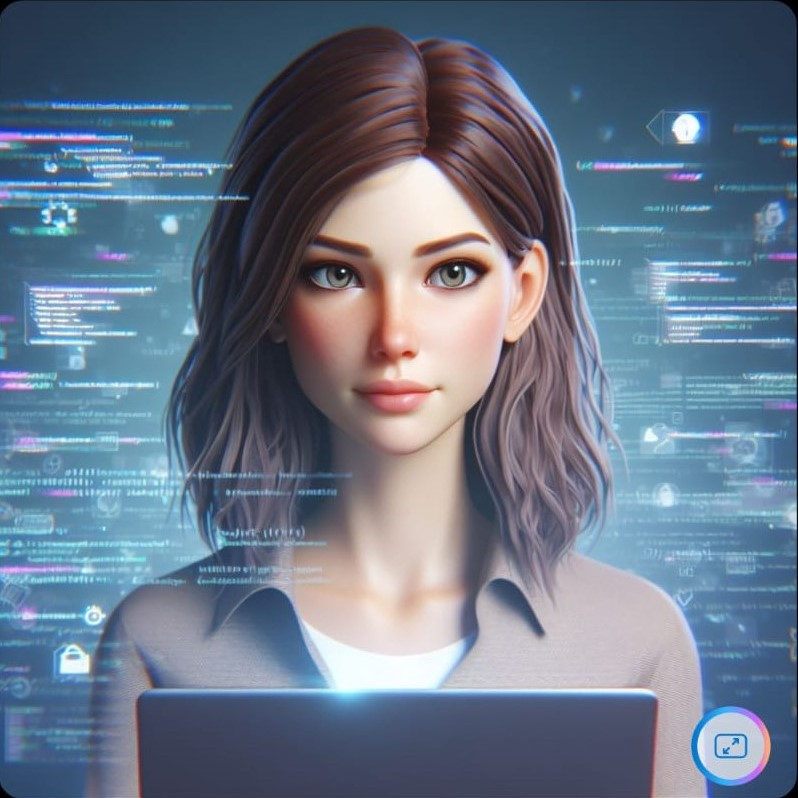
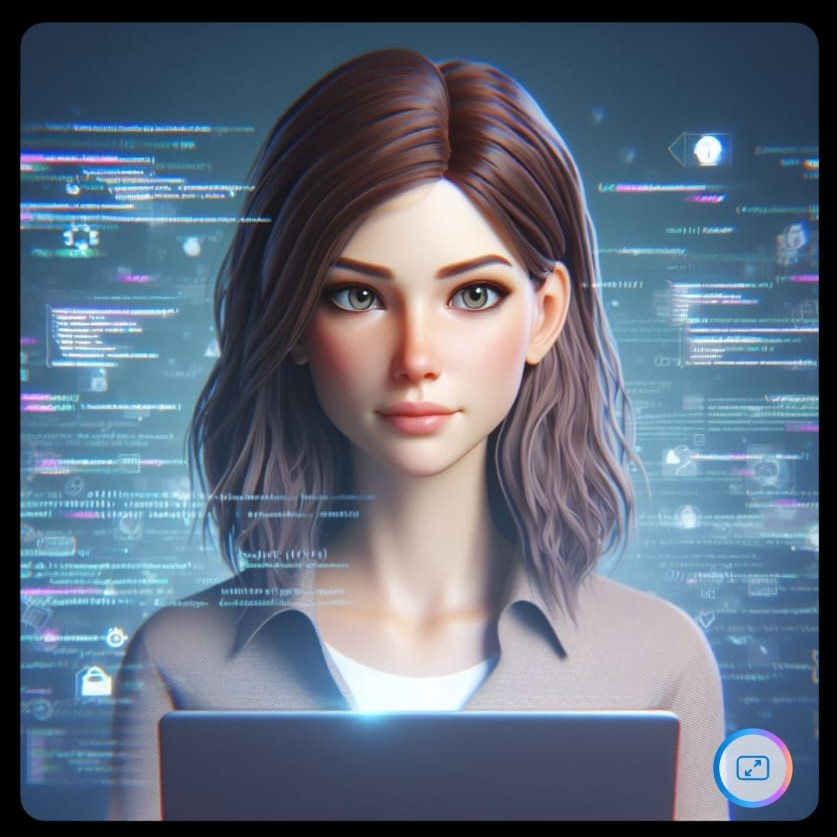
modified page More about me and deleted contact links from middle page position

diff --git a/src/pages/About.jsx b/src/pages/About.jsx
@@ -3,7 +3,7 @@ import Hero from '../components/Hero';
 import Container from '../components/Container';
 import Row from '../components/Row';
 import Col from '../components/Col';
-import EarthPlanet from '../components/Images/shot.jpg';
+import LidarCar from '../components/Images/shot.jpg';
 import Avatar from '../components/Images/Andreea.jpg';
 import { FaHtml5, FaCss3, FaBootstrap, FaGithub, FaReact, FaNodeJs } from "react-icons/fa";
 import { IoLogoJavascript } from "react-icons/io";
@@ -14,40 +14,41 @@ import { SiCodemirror } from "react-icons/si";
 import { FaLinkedin } from "react-icons/fa6";
 import './style.css'
 
-// import { right } from '@popperjs/core';
 
 function About() {
   return (
     <div>
-      <Hero backgroundImage= {EarthPlanet}>
-        <Row>
-          <Col size="md-6">
-        <h1> Andreea Malaiasi</h1>
-        <h2></h2>
-        <span class="badge badge-pill badge-primary"><a href="https://www.linkedin.com/in/andreea-malaiasi-bb15aa235" style={{ color: 'white' }}><FaLinkedin color='white' size='14px' style={{marginRight:'5px'}} />Linkedin</a></span>
-        <span class="badge badge-pill badge-secondary"><a href="https://github.com/Andreea-Lita" style={{ color: 'white'}}>< FaGithub color='white' size='14px' style={{marginRight:'5px'}} />GitHub</a></span>
-        </Col>
-        <Col size="md-4">
-        <img src={Avatar} alt="Andreea (Lita) Malaiasi" style= {{ width: 212, marginTop: 8 }}/>
-        </Col>
-        </Row>
+      <Hero backgroundImage={LidarCar}>
+        <Container size='md-12'>
+          <Row>
+            <Col size="md-4">
+              <h2 id='name'>Andreea Malaiasi</h2>
+              <br />
+              <span class="badge badge-pill badge-primary"><a href="https://www.linkedin.com/in/andreea-malaiasi-bb15aa235" style={{ color: 'white' }}><FaLinkedin color='white' size='14px' style={{ marginRight: '5px' }} />Linkedin</a></span>
+              <span class="badge badge-pill badge-secondary"><a href="https://github.com/Andreea-Lita" style={{ color: 'white' }}>< FaGithub color='white' size='14px' style={{ marginRight: '5px' }} />GitHub</a></span>
+            </Col>
+            <Col size="md-4">
+              <img src={Avatar} alt="Andreea (Lita) Malaiasi" style={{ width: 200, marginTop: 90 }} />
+            </Col>
+          </Row>
+        </Container>
       </Hero>
-  <div className='otherInfo'>
-    <Container>
-      <h5>Practicing web development on my portfolio!</h5>
-      <FaHtml5 color='darkcyan' size='21px' style={{marginRight:'10px'}} />
-      <FaCss3 color='darkred' size='21px' style={{marginRight:'10px'}}/>
-      <IoLogoJavascript color='purple' size='21px' style={{marginRight:'10px'}} />
-      <FaBootstrap color='gray' size='21px' style={{marginRight:'10px'}} />
-      < FaGithub color='black' size='21px' style={{marginRight:'10px'}} />
-      <DiJqueryLogo color='red' size='21px' style={{marginRight:'10px'}} />
-      <LuFileJson color='darkgreen' size='21px' style={{marginRight:'10px'}} />
-      < FaReact color='yellow' size='21px' style={{marginRight:'10px'}} />
-      <TbApi color='blue' size='21px' style={{marginRight:'10px'}} />
-      <FaNodeJs color='pink' size='21px' style={{marginRight:'10px'}} />
-      <SiCodemirror color='orange' size='21px' style={{marginRight:'10px'}} />
-    </Container>
-  </div>
+      <div className='otherInfo'>
+        <Container>
+          <h5>Practicing web development on my portfolio!</h5>
+          <FaHtml5 color='darkcyan' size='21px' style={{ marginRight: '10px' }} />
+          <FaCss3 color='darkred' size='21px' style={{ marginRight: '10px' }} />
+          <IoLogoJavascript color='purple' size='21px' style={{ marginRight: '10px' }} />
+          <FaBootstrap color='gray' size='21px' style={{ marginRight: '10px' }} />
+          < FaGithub color='black' size='21px' style={{ marginRight: '10px' }} />
+          <DiJqueryLogo color='red' size='21px' style={{ marginRight: '10px' }} />
+          <LuFileJson color='darkgreen' size='21px' style={{ marginRight: '10px' }} />
+          < FaReact color='yellow' size='21px' style={{ marginRight: '10px' }} />
+          <TbApi color='blue' size='21px' style={{ marginRight: '10px' }} />
+          <FaNodeJs color='pink' size='21px' style={{ marginRight: '10px' }} />
+          <SiCodemirror color='orange' size='21px' style={{ marginRight: '10px' }} />
+        </Container>
+      </div>
     </div>
   );
 }

diff --git a/src/components/Contact/index.jsx b/src/components/Contact/index.jsx
@@ -3,35 +3,25 @@ import './style.css'
 import Container from '../Container';
 import Row from '../Row';
 import Col from '../Col';
-import Avatar from '../Images/avatar0.jpg'
+import Avatar from '../Images/avatar.jpg'
+import { FaGithub } from "react-icons/fa";
 
 function Contact() {
   return (
-    <div style={{ marginTop: 30, marginLeft: 75 }}>
+    <div style={{ marginTop: 30, marginLeft: 50 }}>
 
-      <Container style={{ marginTop: 90 }}>
+      <Container style={{ marginTop: 80 }}>
         <Row>
           <Col size="md-8">
             <h5>I am a person who likes coding, and mostly coding becoming eficcient for real life! I’ve recently embarked on a journey of web development, creating projects that bring ideas to life!</h5>
             <h5>With every line of code, I try not just building applications, but constructing bridges that connect imagination to reality, transforming the abstract into the tangible.</h5>
               <h5>Developing is also learnig for makeing ideeas a reality!</h5>
             <br />
-            <span class="badge badge-pill badge-secondary"><a href="https://github.com/Andreea-Lita" style={{ color: 'navy' }}>GitHub</a></span>
-            <br />
-            <span class="badge badge-pill badge-primary"><a href="https://www.linkedin.com/in/andreea-malaiasi-bb15aa235" style={{ color: 'navy' }}>Linkedin</a></span>
-            <br />
-            <span class="badge badge-pill badge-secondary"><a href="https://mail.google.com/" style={{ color: 'navy' }}>myemail</a></span>
-            <br />
           </Col>
           <Col size="md-4">
-            <img src={Avatar} alt="close avatar" style={{ width: 175, marginTop: 15 }} />
+            <img src={Avatar} alt="close avatar" style={{ width: 175, marginTop: 5 }} />
           </Col>
         </Row>
-        {/* <Row>
-          <Col size="md-12">
-          
-          </Col>
-        </Row> */}
       </Container>
     </div>
   );

diff --git a/src/components/Footer/index.jsx b/src/components/Footer/index.jsx
@@ -4,16 +4,16 @@ import "./style.css";
 function Footer() {
   return (
     <footer className="footer">
-      <span>Andreea's portfolio with React</span>
+      <span>Portfolio with React 2024</span>
       <div className="contacts-container">
-      <a href="https://www.linkedin.com/in/andreea-malaiasi-bb15aa235">Linkedin</a>
+        <a href="https://www.linkedin.com/in/andreea-malaiasi-bb15aa235">Linkedin</a>
         <br />
         <a href="https://github.com/Andreea-Lita">GitHub</a>.
         <br />
         <a href="https://mail.google.com/">myemail</a>
         <br />
-        </div>
-        <a href ="Tel:+1234567890">cALL UK: +1 234 567 890</a>
+      </div>
+      <a href="Tel:+1234567890">cALL UK: +1 234 567 890</a>
     </footer>
   );
 }

diff --git a/src/App.jsx b/src/App.jsx
@@ -4,7 +4,6 @@ import About from './pages/About';
 import Navbar from './components/Navbar';
 import Footer from './components/Footer';
 import Wrapper from './components/Wrapper';
-// import ProjectGallery from './components/ProjectGallery';
 import CV from './components/CV';
 import Contact from './components/Contact';
 import Projects from './components/ProjectsGallery';

diff --git a/src/components/Navbar/index.jsx b/src/components/Navbar/index.jsx
@@ -30,7 +30,7 @@ function Navbar() {
                   isActive ? 'nav-link active' : 'nav-link'
                 }
               >
-               More about me & Contact 
+              More about me
               </NavLink>
             </li>
             <li className="nav-item">

diff --git a/src/components/Hero/style.css b/src/components/Hero/style.css
@@ -1,5 +1,5 @@
     .hero {
-        height: 580px;
+        height: 530px;
         background-size: cover;
         background-position: center;
         position: relative;

diff --git a/src/pages/style.css b/src/pages/style.css
@@ -5,3 +5,11 @@
 h5 {
     margin-top: 40px;
 }
+
+h1 {
+    margin-top: 30px;
+}
+
+#name {
+    color: rgb(241, 241, 129);
+}

diff --git a/src/components/Footer/style.css b/src/components/Footer/style.css
@@ -16,7 +16,3 @@
 .footer h4 {
     color: rgb(59, 44, 6);
 }
-
-a {
-    color: antiquewhite;
-}
